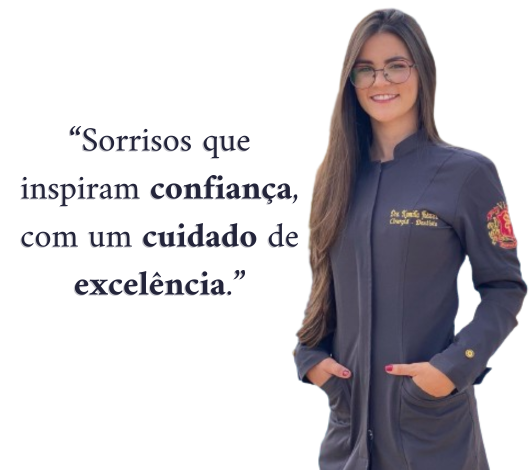
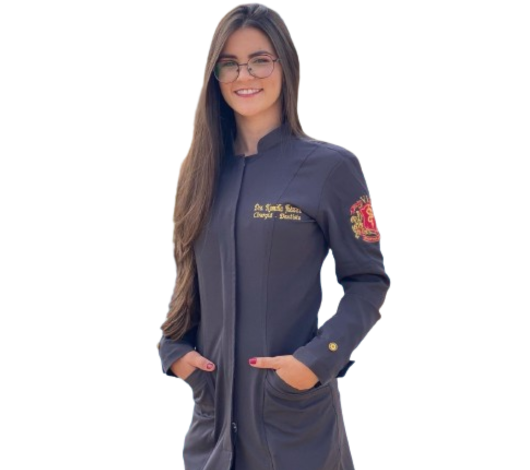
v2.1 (first update)

diff --git a/index.html b/index.html
@@ -59,7 +59,7 @@
             	<nav class="navbar navbar-expand-lg navbar-light">
 					<div class="container box_1620">
 						<!-- Brand and toggle get grouped for better mobile display -->
-						<a class="navbar-brand logo_h" href="index.html"><h3 id="title-logo" style="font-family: 'Amiri';">Dra. Kamilla Jhéssica</h3></a>
+						<a class="navbar-brand logo_h" href="index.html"><img src="img/logo_drakamillaPEQUENA.png" alt=""></a>
 						<button class="navbar-toggler" type="button" data-toggle="collapse" data-target="#navbarSupportedContent" aria-controls="navbarSupportedContent" aria-expanded="false" aria-label="Toggle navigation">
 							<span class="icon-bar"></span>
 							<span class="icon-bar"></span>
@@ -95,7 +95,7 @@
 							<div class="banner_content">
 								<h5 style="font-family: 'Amiri'; color: white;">Dra. Kamilla Jhéssica</h5>
 								<h2>Sua Parceira em Saúde e Estética Dentária</h2>
-								<p>Sorria sem medo! Cuide da curva mais bonita do seu corpo, agende sua consulta e faça uma avaliação sem compromisso. Entre em contato para mais informações.</p>
+								<p>Especialista em Facetas de Resina e Clareamento, . Entre em contato para mais informações.</p>
 								<a class="banner_btn" href="https://wa.me/5561981643687?text=Ol%C3%A1%20Dra.%20Kamilla!%20Gostaria%20de%20agendar%20uma%20consulta.">AGENDE SUA CONSULTA</a>
 							</div>
 						</div>
@@ -105,84 +105,89 @@
 		</section>
         <!--================End Home Banner Area =================-->
 
-		<!-- Imagem Kamilla -->
-
-		<img id="foto_kamilla" style="width: 70%; margin: 1rem;" src="img/background_768px.png" alt="Foto Dra. Kamilla Jhéssica"> 
-
-		        <!--================Welcome Area =================-->
-				<section id="about" class="welcome_area p_120">
-					<div class="container">
-						<div class="row welcome_inner">
-							<div class="col-lg-6">
-								<div class="welcome_text">
-									<h4 style="font-family: 'Amiri';">Sobre</h4>
-									<p>Sou uma cirurgiã dentista com ampla experiência em estética dentária. Com uma sólida formação acadêmica e especialização em facetas de resina e clareamento dental, dedico-me a proporcionar aos meus pacientes sorrisos mais brilhantes e naturais. Meu compromisso com a excelência é evidenciado pelo uso das técnicas mais avançadas e dos mais modernos materiais.</p>
-								</div>
+		<!--================Welcome Area =================-->
+		<section id="about" class="welcome_area p_120">
+			<div class="container">
+				<div class="row welcome_inner">
+					<div class="section-top-border">
+						<h3 style="color: #222338;" class="mb-30 title_color">Dra. Kamilla Jhéssica</h3>
+								<blockquote class="generic-blockquote">
+									Kamilla Jhessica é uma cirurgiã-dentista com ampla experiência em estética dentária. Com uma sólida formação acadêmica e especialização em facetas de resina e clareamento dental, ela dedica-se a proporcionar sorrisos mais brilhantes e naturais aos seus pacientes. Seu compromisso com a excelência se reflete no uso das técnicas mais avançadas e dos materiais mais modernos.
+								</blockquote>
 							</div>
-							<div class="col-lg-6">
-								<div class="tools_expert">
-									<h3 style="font-family: 'Amiri';">Experiência</h3>
-									<div class="skill_main">
-										<div class="skill_item">
-											<h4>Facetas em Resina <span class="counter">99</span>%</h4>
-											<div class="progress">
-												<div class="progress-bar" role="progressbar" aria-valuenow="99" aria-valuemin="0" aria-valuemax="100"></div>
-											</div>
-										</div>
-										<div class="skill_item">
-											<h4>Clareamento <span class="counter">95</span>%</h4>
-											<div class="progress">
-												<div class="progress-bar" role="progressbar" aria-valuenow="95" aria-valuemin="0" aria-valuemax="100"></div>
-											</div>
-										</div>
-										<div class="skill_item">
-											<h4>Cirurgia <span class="counter">50</span>%</h4>
-											<div class="progress">
-												<div class="progress-bar" role="progressbar" aria-valuenow="50" aria-valuemin="0" aria-valuemax="100"></div>
-											</div>
-										</div>
-										<div class="skill_item">
-											<h4>Ortodontia <span class="counter">60</span>%</h4>
-											<div class="progress">
-												<div class="progress-bar" role="progressbar" aria-valuenow="60" aria-valuemin="0" aria-valuemax="100"></div>
-											</div>
-										</div>
-											</div>
-										</div>
+						</div>
+					</div>
+
+		<!--==============Imagem Dispositivos Móveis===============-->
+
+				<img id="foto_kamilla" style="width: 100%; margin: 1rem; margin: 0%; padding: 0%;" src="img/background_768px.png" alt="Foto Dra. Kamilla Jhéssica"> 
+		
+		<!--==============Imagem Dispositivos Móveis===============-->
+
+					<div class="col-lg-6">
+						<div class="tools_expert">
+							<h3 style="font-family: 'Amiri';">Experiência</h3>
+							<div class="skill_main">
+								<div class="skill_item">
+									<h4>Facetas em Resina <span class="counter">99</span>%</h4>
+									<div class="progress">
+										<div class="progress-bar" role="progressbar" aria-valuenow="99" aria-valuemin="0" aria-valuemax="100"></div>
+									</div>
+								</div>
+								<div class="skill_item">
+									<h4>Clareamento <span class="counter">95</span>%</h4>
+									<div class="progress">
+										<div class="progress-bar" role="progressbar" aria-valuenow="95" aria-valuemin="0" aria-valuemax="100"></div>
+									</div>
+								</div>
+								<div class="skill_item">
+									<h4>Cirurgia <span class="counter">50</span>%</h4>
+									<div class="progress">
+										<div class="progress-bar" role="progressbar" aria-valuenow="50" aria-valuemin="0" aria-valuemax="100"></div>
+									</div>
+								</div>
+								<div class="skill_item">
+									<h4>Ortodontia <span class="counter">60</span>%</h4>
+									<div class="progress">
+										<div class="progress-bar" role="progressbar" aria-valuenow="60" aria-valuemin="0" aria-valuemax="100"></div>
+									</div>
+								</div>
 									</div>
 								</div>
 							</div>
-							<div>
-								<img id="img_kamilla" style="width: 100%;" src="img/img_kamilla.png" alt="">
-							</div>
-				</section>
-				<!--================End Welcome Area =================-->
+						</div>
+					</div>
+		</section>
+		<!--================End Welcome Area =================-->
+
+
+		
 
 		<!--================Feature Area =================-->
 <section id="services" class="feature_area p_120">
 	<div class="container">
 		<div class="main_title">
-			<h2 style="font-family: 'Amiri';">Sorrisos Transformados e Confiança Renovada!</h2>
+			<h2 style="font-family: 'Roboto'; color: #222338; font-size: 30px;">Sorrisos Transformados, Confiança Renovada!</h2>
 		</div>
 		<div class="feature_inner row">
 			<div class="col-lg-4 col-md-6">
 				<div class="feature_item">
 					<img class="case_img" src="img/case1.png" alt="Caso Dentário 1">
-					<h4 style="font-family: 'Amiri';">Harmonização e Equilíbrio</h4>
+					<h4 style="font-family: 'Roboto'; font-size: 22px; margin-top: 10px; color: #222338;">Harmonização e Equilíbrio</h4>
 					<p>Trabalho minucioso para harmonizar o sorriso e melhorar a qualidade de vida. O equilíbrio entre estética e funcionalidade faz toda a diferença.</p>
 				</div>
 			</div>
 			<div class="col-lg-4 col-md-6">
 				<div class="feature_item">
 					<img class="case_img" src="img/case2.png" alt="Caso Dentário 1">
-					<h4 style="font-family: 'Amiri';">Renovação Estética</h4>
+					<h4 style="font-family: 'Roboto'; font-size: 22px; margin-top: 10px; color: #222338;">Renovação Estética</h4>
 					<p>O poder de um sorriso bem cuidado: alinhamento perfeito e estética aprimorada para um resultado que vai além das expectativas.</p>
 				</div>
 			</div>
 			<div class="col-lg-4 col-md-6">
 				<div class="feature_item">
 					<img class="case_img" src="img/case3.png" alt="Caso Dentário 1">
-					<h4 style="font-family: 'Amiri';">Sorriso Transformado</h4>
+					<h4 style="font-family: 'Roboto'; font-size: 22px; margin-top: 10px; color: #222338;">Sorriso Transformado</h4>
 					<p>Uma transformação completa que restaurou a confiança e a beleza do sorriso. Cada detalhe foi cuidadosamente planejado para trazer de volta o brilho natural.</p>
 					<a style="margin-top: 2rem;" class="banner_btn" href="https://wa.me/5561981643687?text=Ol%C3%A1%20Dra.%20Kamilla!%20Gostaria%20de%20agendar%20uma%20consulta.
 					">AGENDE SUA CONSULTA</a>
@@ -246,7 +251,7 @@
         	<div class="container">
         		<div class="main_title">
         			<h2 style="font-family: 'Amiri';"
-					>Notícias e Tendências Odontológicas</h2>
+					>Notícias Odontológicas</h2>
         			<p>Fique por dentro das últimas novidades e tendências no mundo da odontologia. Nesta seção, compartilhamos notícias relevantes, avanços tecnológicos, descobertas científicas, e dicas essenciais para profissionais e pacientes que desejam se manter informados sobre tudo o que acontece no campo da saúde bucal.</p>
         		</div>
         		<div class="row latest_blog_inner">

diff --git a/css/style.css b/css/style.css
@@ -208,7 +208,7 @@ button:focus {
             .header_area .navbar .nav .nav-item.submenu ul .nav-item:last-child {
               border-bottom: none; }
             .header_area .navbar .nav .nav-item.submenu ul .nav-item:hover .nav-link {
-              background: #8490ff;
+              background: #6789B7;
               color: #fff; }
         @media (min-width: 992px) {
           .header_area .navbar .nav .nav-item.submenu:hover ul {
@@ -276,7 +276,7 @@ button:focus {
     .top_menu .float-left a:hover {
       color: #8490ff; }
   .top_menu .float-right .pur_btn {
-    background: #8490ff;
+    background: #6789B7;
     color: #fff;
     font-family: "Roboto", sans-serif;
     line-height: 40px;
@@ -327,7 +327,7 @@ button:focus {
 .home_banner_area {
   position: relative; /* Necessário para o pseudo-elemento */
   z-index: 1;
-  background: url(../img/background_logo.png) no-repeat center center; /* Sua imagem de fundo */
+  background: url(../img/background_logo.jpg) no-repeat center center; /* Sua imagem de fundo */
   background-size: cover;
 }
 
@@ -338,7 +338,7 @@ button:focus {
   left: 0;
   width: 100%;
   height: 100%;
-  background: rgba(0, 0, 0, 0.3); /* Ajuste a cor e a opacidade da sobreposição conforme necessário */
+  background: rgba(0, 0, 0, 0.4); /* Ajuste a cor e a opacidade da sobreposição conforme necessário */
   z-index: 1; /* Garante que a sobreposição fique acima da imagem de fundo */
 }
 
@@ -813,7 +813,7 @@ button:focus {
         .blog_right_sidebar .author_widget .social_icon a + a {
           margin-left: 20px; }
         .blog_right_sidebar .author_widget .social_icon a:hover {
-          color: #8490ff; }
+          color: #6789B7; }
   .blog_right_sidebar .popular_post_widget .post_item .media-body {
     justify-content: center;
     align-self: center;
@@ -825,7 +825,7 @@ button:focus {
       margin-bottom: 4px;
       transition: all 0.3s linear; }
       .blog_right_sidebar .popular_post_widget .post_item .media-body h3:hover {
-        color: #8490ff; }
+        color: #6789B7; }
     .blog_right_sidebar .popular_post_widget .post_item .media-body p {
       font-size: 12px;
       line-height: 21px;
@@ -1376,6 +1376,11 @@ button:focus {
   margin-bottom: 20px; }
 
 .mb-30 {
+  color: #222338;
+  font-size: 2.25rem;
+  font-family: 'Amiri';
+  margin-top: -4rem;
+  margin-left: 1rem;
   margin-bottom: 30px; }
 
 .sample-text-area {
@@ -1838,9 +1843,9 @@ h6 {
   cursor: not-allowed; }
 
 .generic-blockquote {
-  padding: 30px 50px 30px 30px;
+  padding: 20px 20px 20px 20px;
   background: #fff;
-  border-left: 2px solid #f8b600; }
+  border-left: 15px solid #6789B7; }
 
 @media (max-width: 991px) {
   .progress-table-wrap {
@@ -1895,7 +1900,7 @@ h6 {
   line-height: 5px; }
 
 .progress-table .table-row .percentage .progress .progress-bar.color-1 {
-  background-color: #6382e6; }
+  background-color: #6789B7; }
 
 .progress-table .table-row .percentage .progress .progress-bar.color-2 {
   background-color: #e66686; }
@@ -1913,7 +1918,7 @@ h6 {
   background-color: #6382e6; }
 
 .progress-table .table-row .percentage .progress .progress-bar.color-7 {
-  background-color: #a367e7; }
+  background-color: #6789B7; }
 
 .progress-table .table-row .percentage .progress .progress-bar.color-8 {
   background-color: #e66686; }
@@ -2649,7 +2654,7 @@ h6 {
 .banner_btn {
   padding: 0px 42px;
   line-height: 50px;
-  background-image: linear-gradient(to right, #23243A 0%, #565368 48%, #8490ff 100%);
+  background-image: linear-gradient(to right, #6789B7 0%, #6789B7 48%, #8FA9CF 100%);
   background-size: 200% auto;
   color: #fff;
   display: inline-block;
@@ -2797,7 +2802,7 @@ h6 {
   .welcome_text h4 {
     color: #222222;
     font-family: "Heebo", sans-serif;
-    font-size: 36px;
+    font-size: 50px;
     margin-bottom: 18px;
     text-transform: uppercase; }
   .welcome_text p {
@@ -2833,16 +2838,19 @@ h6 {
   box-shadow: 0px 8px 30px 0px rgba(153, 153, 153, 0.1);
   padding: 50px 35px; }
   .tools_expert h3 {
-    color: #222222;
-    font-size: 21px;
-    text-transform: uppercase; }
+    color: #222338;
+    font-size: 25px;
+    text-transform: uppercase; 
+    text-align: center;
+  }
+    
   .tools_expert .skill_main .skill_item {
     margin-bottom: 18px; }
     .tools_expert .skill_main .skill_item:last-child {
       margin-bottom: 0px; }
     .tools_expert .skill_main .skill_item h4 {
       text-align: right;
-      font-size: 14px;
+      font-size: 18px;
       font-family: "Roboto", sans-serif;
       font-weight: normal;
       color: #777777;
@@ -2862,9 +2870,9 @@ h6 {
         border-radius: 5px;
         vertical-align: middle;
         align-self: center;
-        background-image: -moz-linear-gradient(0deg, #8490ff 0%, #62bdfc 100%);
+        background-image: -moz-linear-gradient(0deg, #6789B7 0%, #6789B7 100%);
         background-image: -webkit-linear-gradient(0deg, #8490ff 0%, #62bdfc 100%);
-        background-image: -ms-linear-gradient(0deg, #8490ff 0%, #62bdfc 100%); }
+        background-image: -ms-linear-gradient(0deg, #6789B7 0%, #6789B7 100%); }
 
 /* End Welcome Area css
 ============================================================================================ */
@@ -3150,7 +3158,7 @@ h6 {
 /*     Footer     */
 /******************/
 footer {
-  background-color: #23243A;
+  background-color: #222338;
   color: #FFF;
   padding: 20px;
   text-align: center;
